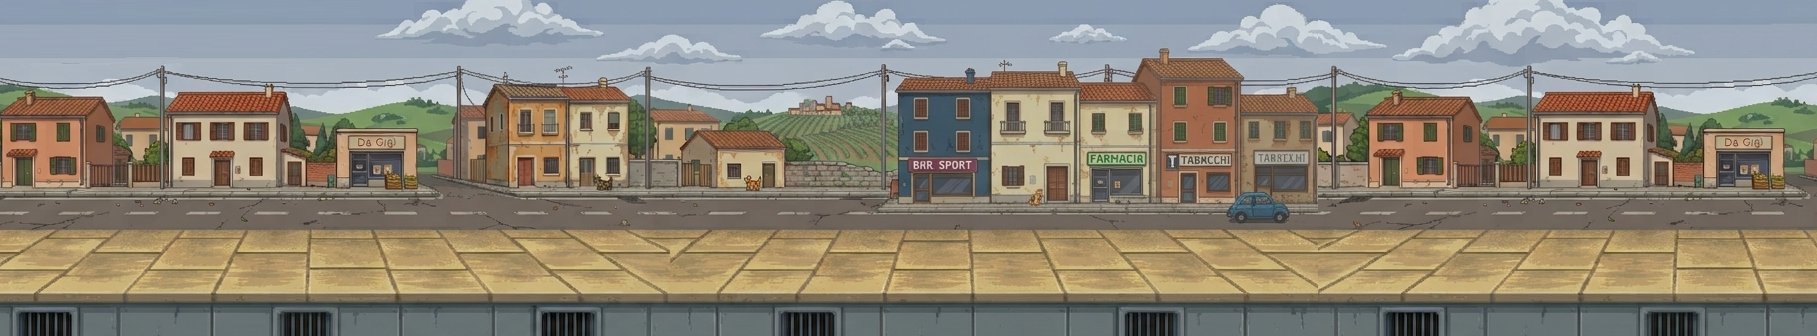
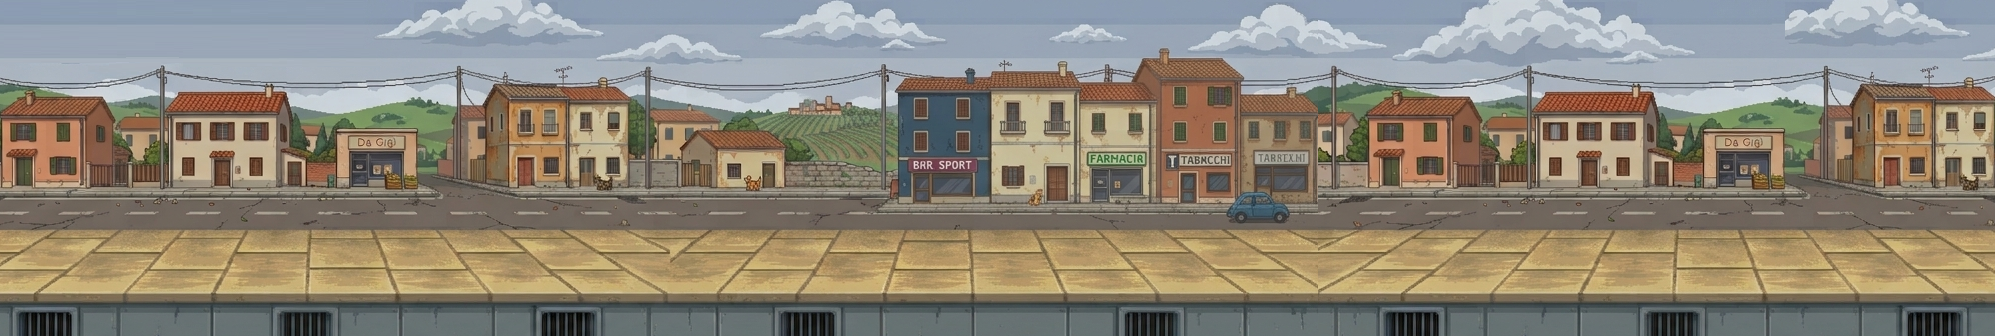
Start the bonus car intact, and reach level 1 from New Game
Car
  Frame 0 was a damaged variant cropped at the sill, so the bonus stage
  opened on a wheel-less car. The pristine sprite is the one at (394,387)
  in the source sheet -- denser than the damage frames (12924px vs ~8200)
  precisely because it is the only one that includes the running gear.

  The damage art is upper-body only, drawn to overlay static running gear,
  so each state is now composited onto the pristine car's lower section.
  Every frame keeps its wheels, from intact through to the wreck.

Level 1
  New Game pointed at /game/index.html, a placeholder literally titled
  "404 -- Super Gere" from when story mode had no level. It now opens
  web/level/, the scrolling street, which is what New Game means.

diff --git a/web/js/title.js b/web/js/title.js
@@ -18,9 +18,10 @@ const MENU_ITEMS = ['newGame', 'arena', 'highscores', 'options'];
 // the nginx root. Kept as functions so the headless test harness can stub
 // them instead of needing a real `location`.
 //
-// The story mode has no level yet, so New Game lands on a 404 placeholder.
+// New Game starts the story mode at level 1 (web/level/), the scrolling
+// street. Arena is the free-play gym.
 const ARENA_URL = '/arena/index.html';
-const NEW_GAME_URL = '/game/index.html';
+const NEW_GAME_URL = '/level/index.html';
 
 function navigateToArena() {
   window.location.href = ARENA_URL;
